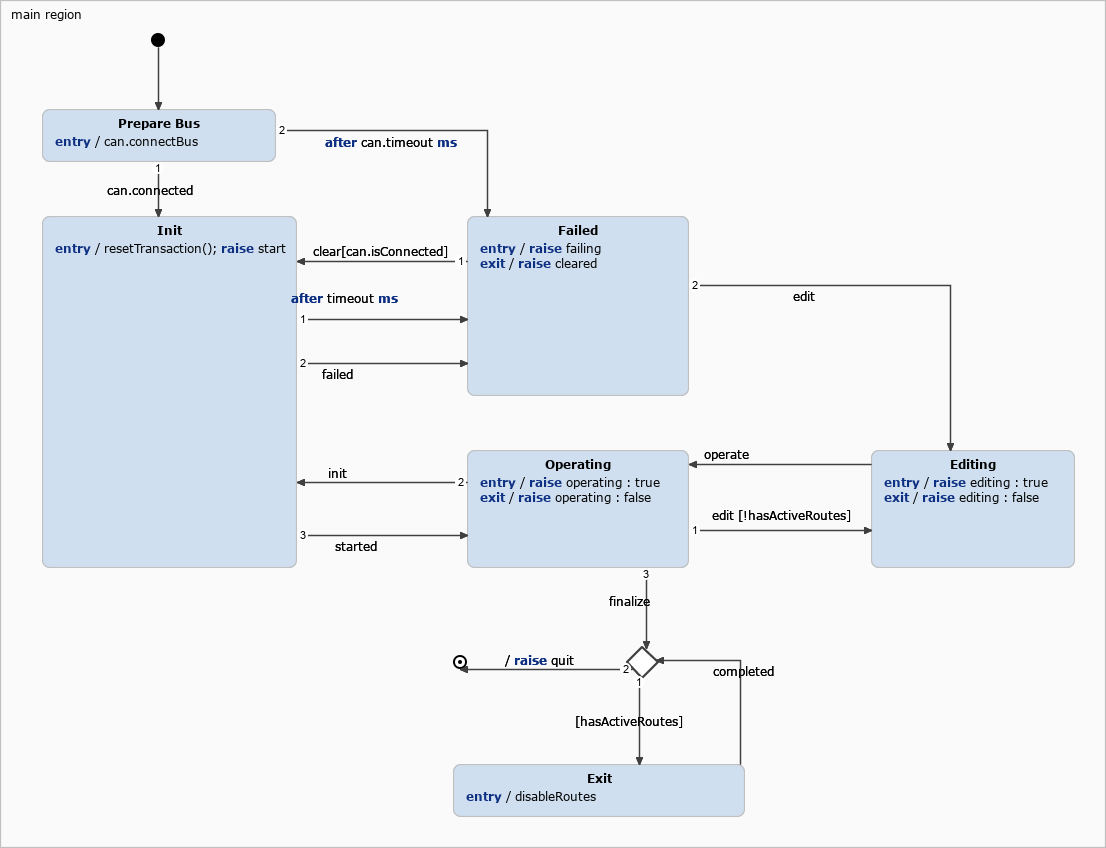
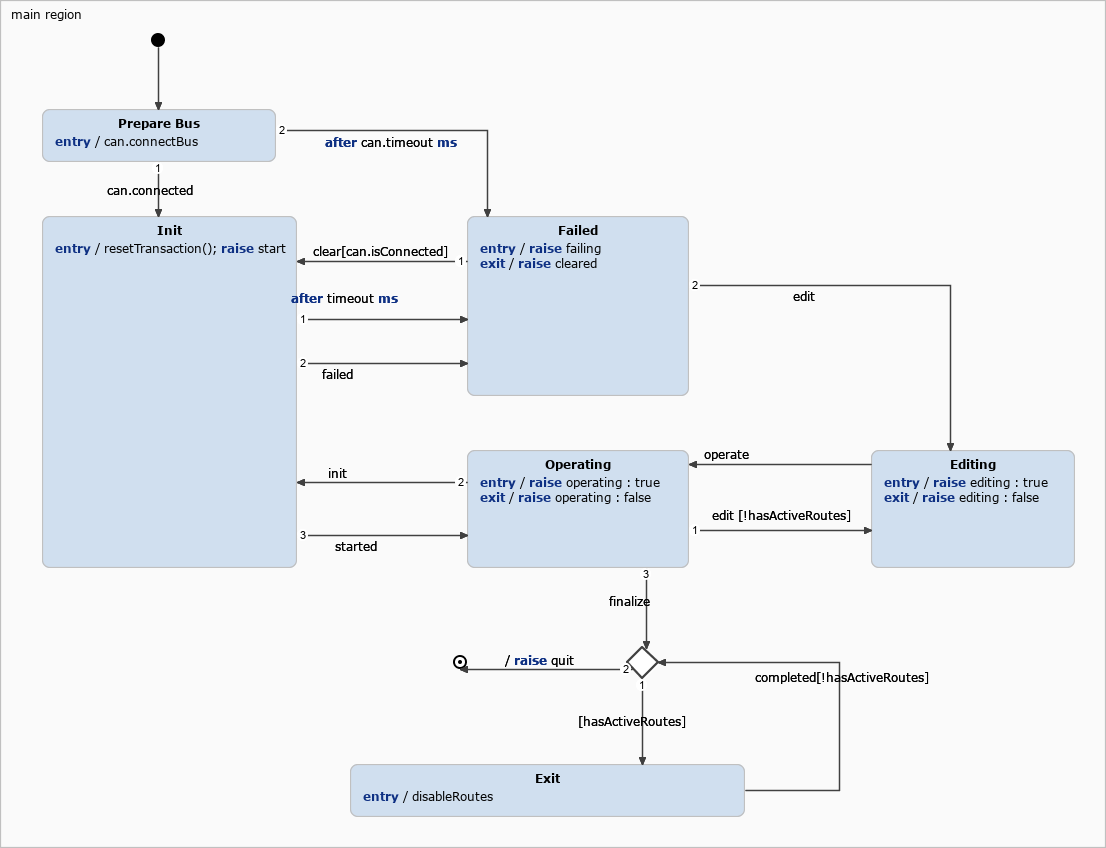
Corrected route disabling on application quit.

diff --git a/track-control/mainwindow.cpp b/track-control/mainwindow.cpp
@@ -80,14 +80,11 @@ MainWindow::MainWindow(
 
 MainWindow::~MainWindow()
 {
-	Q_ASSERT(!hasActiveRoutes());
+	__METHOD__;
 
-	ControllerRegistry::instance().tryComplete();
-	if (!ControllerRegistry::instance().isCompleted())
-	{
-		sleep(1);
-		ControllerRegistry::instance().tryComplete();
-	}
+	qInfo(" Quitting main window.");
+	Q_ASSERT(!hasActiveRoutes());
+	Q_ASSERT(ControllerRegistry::instance().isCompleted());
 
 	statechart.exit();
 
@@ -299,6 +296,9 @@ void MainWindow::resetTransaction()
 
 bool MainWindow::hasActiveRoutes()
 {
+	__METHOD__;
+
+	qDebug(" %d active routes.", ui->routeListWidget->count());
 	return ui->routeListWidget->count() > 0;
 }
 
@@ -306,11 +306,7 @@ void MainWindow::disableRoutes()
 {
 	__METHOD__;
 
-	enable();
-	QListWidgetItem * item  = ui->routeListWidget->takeItem(0);
-	WidgetRoute   *   route = item->data(WidgetRoute::USER_ROLE).value<WidgetRoute *>();
-
-	route->disable();
+	on_clearAllRoutes_clicked();
 }
 
 void MainWindow::expandBorder(RegionForm * form, BaseController * controller, Position * position)
@@ -516,7 +512,7 @@ void MainWindow::on_clearRoute_clicked()
 	{
 		const int row = ui->routeListWidget->row(item);
 
-		ui->routeListWidget->takeItem(row);
+		ui->routeListWidget->item(row);
 
 		WidgetRoute * route = item->data(WidgetRoute::USER_ROLE).value<WidgetRoute *>();
 
@@ -534,11 +530,19 @@ void MainWindow::on_clearRoute_clicked()
 
 void MainWindow::on_clearAllRoutes_clicked()
 {
-	while (ui->routeListWidget->count() > 0)
+	std::vector<WidgetRoute *> routes;
+
+	for (int index = 0; index < ui->routeListWidget->count(); index++)
 	{
-		QListWidgetItem * item  = ui->routeListWidget->takeItem(0);
+		QListWidgetItem * item  = ui->routeListWidget->item(index);
 		WidgetRoute   *   route = item->data(WidgetRoute::USER_ROLE).value<WidgetRoute *>();
 
+		routes.push_back(route);
+	}
+
+	// Disable collected routes.
+	for (WidgetRoute * route : routes)
+	{
 		route->disable();
 	}
 

diff --git a/track-control/widgetroute.cpp b/track-control/widgetroute.cpp
@@ -82,6 +82,7 @@ WidgetRoute::~WidgetRoute()
 			part->setBatch(nullptr);
 		}
 	}
+	Batch::dump();
 
 	statechart.disable();
 	statechart.exit();
@@ -483,7 +484,7 @@ void WidgetRoute::fail()
 	__METHOD__;
 
 	qCritical().noquote() << String::red("Timeout turning route:") << list_item.text();
-	ControllerRegistry::instance().dump();
+	Batch::dump();
 
 	dump();
 }

diff --git a/statecharts/OperatingModeStatechart.cpp b/statecharts/OperatingModeStatechart.cpp
@@ -788,7 +788,7 @@ namespace mrw
 			sc::integer transitioned_after = transitioned_before;
 			if ((transitioned_after) < (0))
 			{
-				if (completed_raised)
+				if (((completed_raised)) && ((!ifaceOperationCallback->hasActiveRoutes())))
 				{
 					exseq_main_region_Exit();
 					react_main_region__choice_0();

diff --git a/statecharts/test/OperatingMode/OperatingModeStatechart.cpp b/statecharts/test/OperatingMode/OperatingModeStatechart.cpp
@@ -842,7 +842,7 @@ namespace mrw
 			sc::integer transitioned_after = transitioned_before;
 			if ((transitioned_after) < (0))
 			{
-				if (completed_raised)
+				if (((completed_raised)) && ((!ifaceOperationCallback->hasActiveRoutes())))
 				{
 					exseq_main_region_Exit();
 					react_main_region__choice_0();

diff --git a/track-control/ctrl/batch.cpp b/track-control/ctrl/batch.cpp
@@ -95,6 +95,8 @@ bool Batch::isCompleted()
 
 void Batch::dump()
 {
+	qDebug("======================= Transaction (ID=%u) contains %zu elements.",
+		id, transaction.size());
 	for (BatchParticipant * registrand : transaction)
 	{
 		qDebug() << registrand->name();
